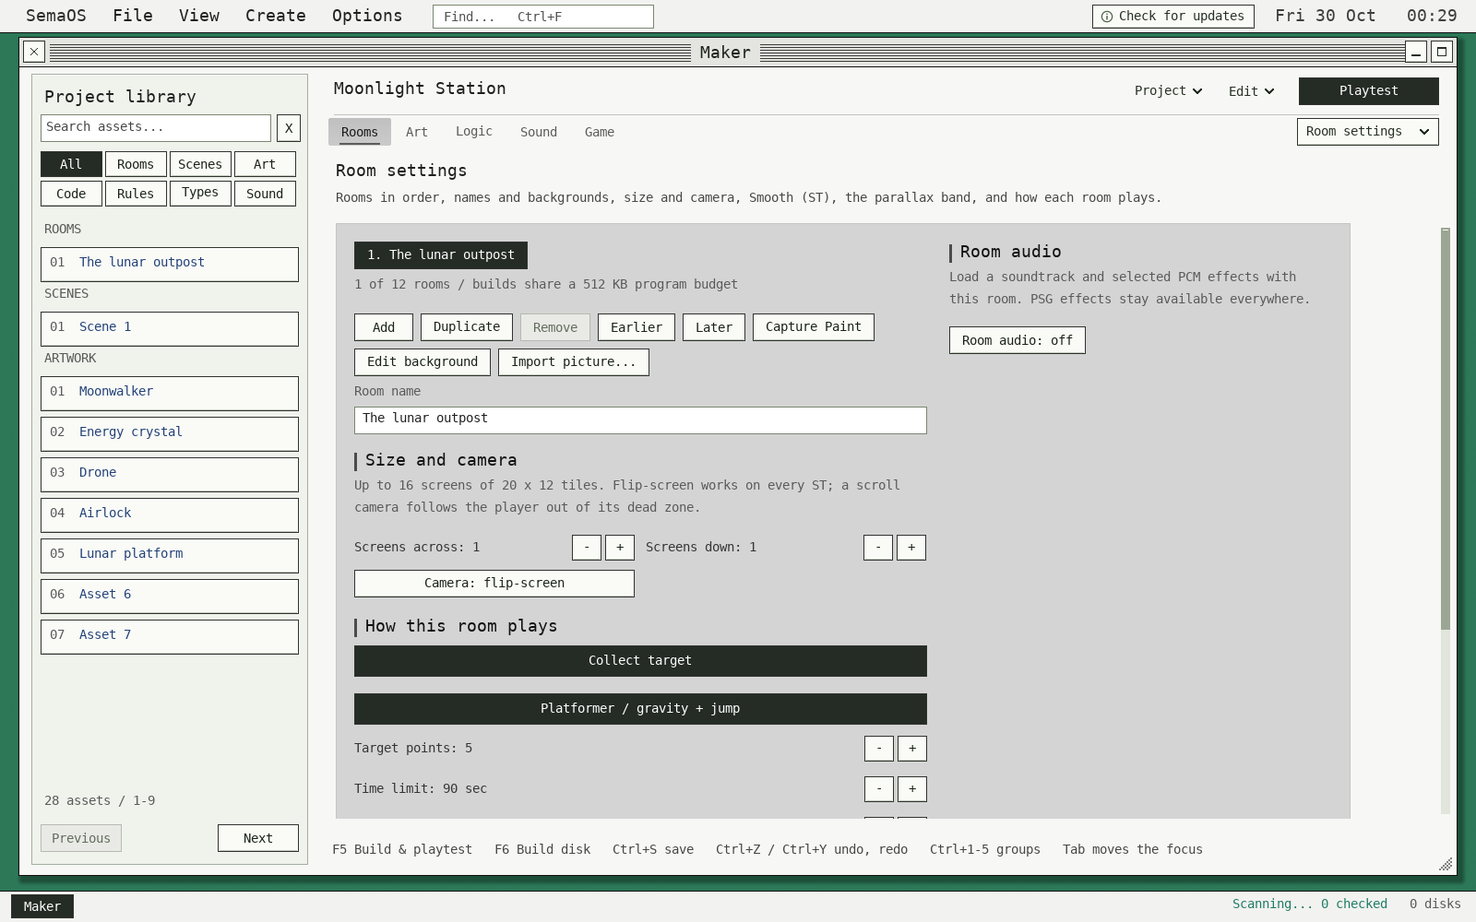
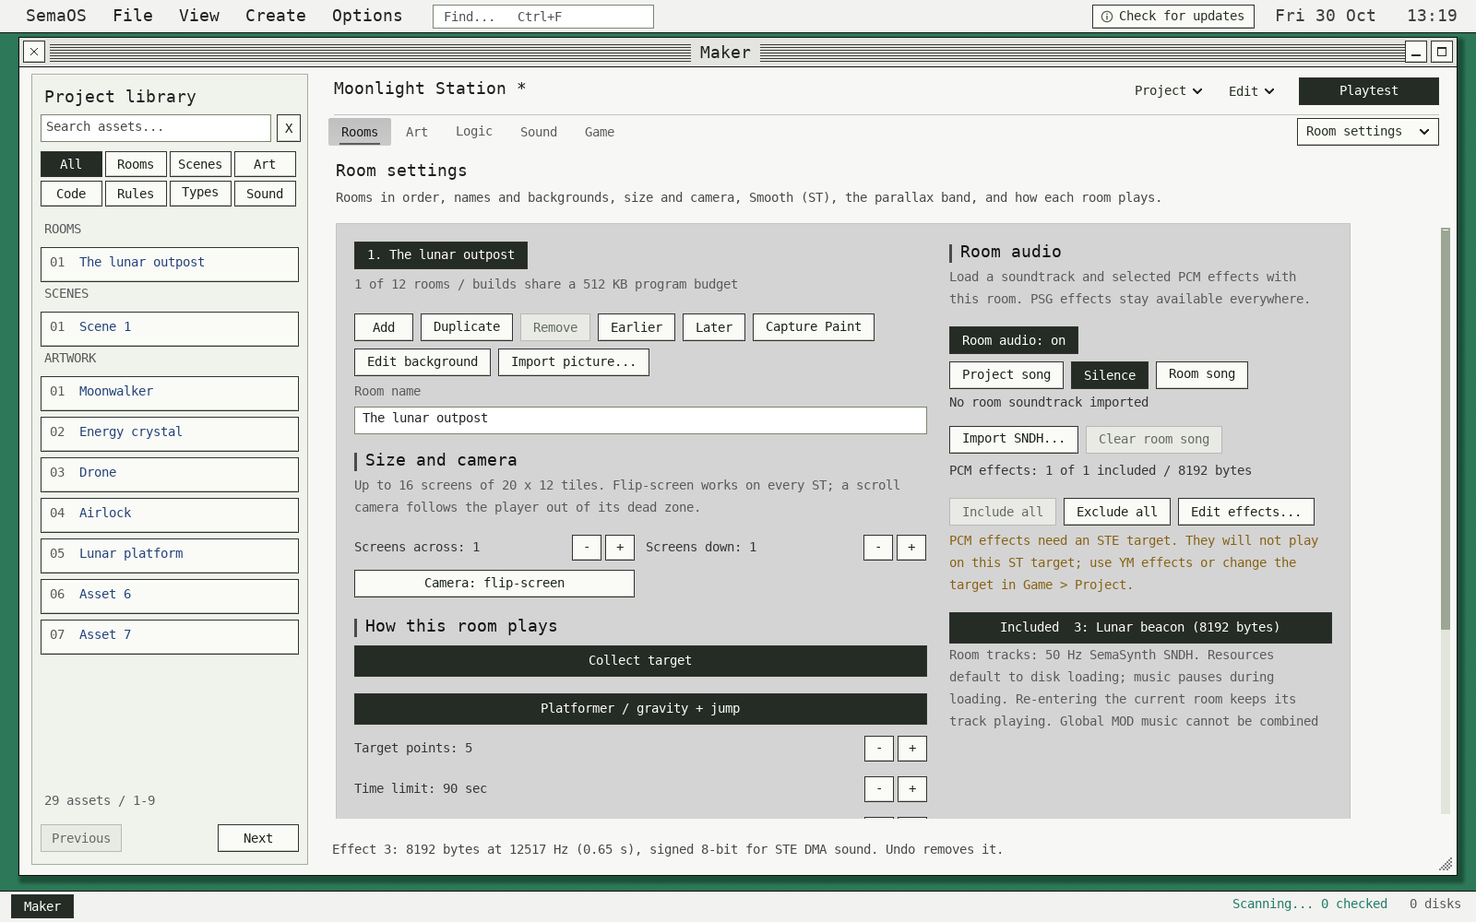
Refresh Creator page with 1.1.589 screenshots and workflows

diff --git a/docs/creator.html b/docs/creator.html
@@ -18,40 +18,47 @@
 <div class="actions"><a class="button" href="index.html#download">Get SemaTor <span aria-hidden="true">↓</span></a><a class="secondary" href="#workspace">Inside the studio <span aria-hidden="true">↘</span></a></div>
 <p class="availability">Windows &amp; Linux · Mouse and keyboard · Violet &amp; GEM themes</p>
 <p class="availability">New in 1.1.589: jump between placed objects, navigate code by line and match, and keep sample loops intact across edits.</p>
-<figure class="hero-figure"><a href="creator/maker-workspace.png" aria-label="Open full Maker workspace screenshot"><img src="creator/maker-workspace.png" width="1600" height="1000" fetchpriority="high" alt="Maker editing Moonlight Station, with a lunar room, tile palette and searchable project library"></a><figcaption><span>THE WORKSPACE / MAKER</span>Actual 1.1.587 application capture. Moonlight Station is original demonstration content built with the platform starter.</figcaption></figure>
+<figure class="hero-figure"><a href="creator/maker-workspace.png" aria-label="Open full Maker workspace screenshot"><img src="creator/maker-workspace.png" width="1600" height="1000" fetchpriority="high" alt="Maker editing Moonlight Station, with a lunar room, tile palette and searchable project library"></a><figcaption><span>THE WORKSPACE / MAKER</span>SemaTor 1.1.589 · Violet theme. Moonlight Station is original demonstration content built with the platform starter. Open any screenshot to inspect the complete image.</figcaption></figure>
 </section>
-<nav class="section-nav wrap" aria-label="On this page"><a href="#workspace">Visual creation</a><a href="#code">SemaBASIC &amp; assembly</a><a href="#tools">Connected tools</a><a href="#targets">Real machine limits</a><a href="#questions">Practical details</a></nav>
+<nav class="section-nav wrap" aria-label="On this page"><a href="#workspace">Visual creation</a><a href="#paint">Pixel art</a><a href="#code">SemaBASIC &amp; assembly</a><a href="#sound">Sound &amp; samples</a><a href="#tools">Connected tools</a><a href="#targets">Real machine limits</a><a href="#questions">Practical details</a></nav>
 <section id="workspace" class="wrap section">
 <div class="section-heading"><p class="eyebrow">START VISUALLY / KEEP GOING</p><h2>Your project.<br>Everything in reach.</h2><p>Rooms, artwork, types, rules, code and sounds share one searchable library. Focus on the canvas, then open the part you need to change.</p></div>
-<div class="feature-strip"><div><span class="number">01 / BUILD THE WORLD</span><h3>Rooms that grow.</h3><p>Paint tiles, place objects and draw movement paths. Follow the player through rooms up to sixteen screens, with zoom, panning and a minimap.</p></div><div><span class="number">02 / GIVE IT BEHAVIOUR</span><h3>One type. Many instances.</h3><p>Give an object type rules and event code, then reuse it across your game. Duplicate a type with its own rules and routines when you want a variation.</p></div><div><span class="number">03 / TRY IT NOW</span><h3>Build. Play. Adjust.</h3><p>F5 builds the native program and opens Playtest. Pause, inspect values and step through code, then return to the same editable project.</p></div></div>
-<figure class="wide-figure"><a href="creator/maker-types.png" aria-label="Open full object type workspace screenshot"><img src="creator/maker-types.png" width="1600" height="1000" loading="lazy" alt="Maker object type workspace with named types, artwork and Create, Duplicate and event editing controls"></a><figcaption>Defined object types stay easy to find; empty slots and capacity remain explicit. New and Duplicate are separate actions.</figcaption></figure>
+<div class="feature-strip"><div><span class="number">01 / BUILD THE WORLD</span><h3>Rooms that grow.</h3><p>Paint tiles, place objects and draw movement paths. Follow the player through rooms up to sixteen screens, with zoom, panning and a minimap.</p></div><div><span class="number">02 / GIVE IT BEHAVIOUR</span><h3>One type. Many instances.</h3><p>Give an object type rules and event code, then reuse it across your game. Duplicate a type with its own rules and routines when you want a variation. Turn an independent placed object into a reusable type, or find every placement of an existing type.</p></div><div><span class="number">03 / TRY IT NOW</span><h3>Build. Play. Adjust.</h3><p>F5 builds the native program and opens Playtest. Pause, inspect values and step through code, then return to the same editable project.</p></div></div>
+<figure class="wide-figure"><a href="creator/maker-types.png" aria-label="Open full object type workspace screenshot"><img src="creator/maker-types.png" width="1600" height="1000" loading="lazy" alt="Maker object type workspace with named types, artwork and Create, Duplicate and event editing controls"></a><figcaption>Rooms → Object types. New object type, Duplicate type and Find placed instances are separate controls; the selected type shows its sprite and linked instance count.</figcaption></figure>
+<div class="screenshot-story"><div><p class="eyebrow">FIND THE OBJECT / KEEP YOUR PLACE</p><h3>Every instance.<br>One way back.</h3><p><strong>Find placed instances</strong> lists the selected type’s placements by room and position. Choose a row to open the room and centre that exact object.</p><p>Hidden objects become visible when you jump to them. Existing locks remain in place, and navigation does not change the project.</p></div><figure><a href="creator/maker-instances.png" aria-label="Open full placed instances screenshot"><img src="creator/maker-instances.png" width="1600" height="1000" loading="lazy" alt="Maker listing five Energy crystal placements in The lunar outpost, with room names and positions"></a><figcaption>1.1.589 · The five crystals in this demo are linked to the same Energy crystal type.</figcaption></figure></div>
 <div class="starter-band"><div><p class="eyebrow">FIVE PLAYABLE STARTERS</p><h3>Learn by changing something.</h3></div><p>Top-down · Platform · Arcade · Puzzle · Two-player<br><span>Replace the art, move a switch or change a rule. The examples use the same tools as your own project.</span></p></div>
 </section>
-<section class="paint-section"><div class="wrap section">
+<section id="paint" class="paint-section"><div class="wrap section">
 <div class="section-heading"><p class="eyebrow">SEMAPAINT / EVERY PIXEL COUNTS</p><h2>Small canvas.<br>Precise control.</h2><p>A 320 × 200 indexed canvas, layers beside your artwork and animation frames below it. Zoom in to see the individual ST pixels, with a pixel grid and a separate tile grid.</p></div>
-<figure class="wide-figure"><a href="creator/paint-animation.png" aria-label="Open full SemaPaint screenshot"><img src="creator/paint-animation.png" width="1600" height="1000" loading="lazy" alt="SemaPaint showing a zoomed lunar sprite sheet, individual pixel grid, named layers and four animation frames"></a><figcaption>Original indexed artwork in SemaPaint 1.1.587. The animation cell size stays independent of the pixel grid.</figcaption></figure>
-<div class="palette-story"><div><p class="eyebrow">COLOUR, WITHOUT SURPRISES</p><h3>Add a colour.<br>Keep what you painted.</h3><p><strong>New colour</strong> uses a free palette slot, or selects an exact match already in the palette. <strong>Edit colour</strong> deliberately changes every pixel using that slot. Both show a preview before you confirm.</p><p>Used slots include hidden layers and animation frames. If all sixteen slots are occupied, the editor tells you; it does not quietly recolour another part of your picture.</p><div class="palette-facts"><span><strong>512</strong> ST colours</span><span><strong>4,096</strong> STE colours</span><span><strong>16</strong> slots per picture</span></div></div><figure><a href="creator/paint-new-colour.png" aria-label="Open full New colour dialog screenshot"><img src="creator/paint-new-colour.png" width="1600" height="1000" loading="lazy" alt="SemaPaint New colour dialog with ST colour channels, staged preview and separate Use colour and Cancel controls"></a><figcaption>The ST and STE colour ranges are available through their hardware channel steps.</figcaption></figure></div>
+<figure class="wide-figure"><a href="creator/paint-animation.png" aria-label="Open full SemaPaint screenshot"><img src="creator/paint-animation.png" width="1600" height="1000" loading="lazy" alt="SemaPaint showing a zoomed lunar sprite sheet, individual pixel grid, named layers and four animation frames"></a><figcaption>Original indexed artwork in SemaPaint 1.1.589. The animation cell size stays independent of the pixel grid. The layer list and frame strip remain beside the working canvas.</figcaption></figure>
+<div class="palette-story"><div><p class="eyebrow">COLOUR, WITHOUT SURPRISES</p><h3>Add a colour.<br>Keep what you painted.</h3><p><strong>New colour</strong> uses a free palette slot, or selects an exact match already in the palette. <strong>Edit palette colour</strong> deliberately changes every pixel using that slot. Both show a preview before you confirm. Use colour replacement when you want to replace an index within your selection, active layer or whole picture.</p><p>Used slots include hidden layers and animation frames. If all sixteen slots are occupied, the editor tells you; it does not quietly recolour another part of your picture.</p><div class="palette-facts"><span><strong>512</strong> ST colours</span><span><strong>4,096</strong> STE colours</span><span><strong>16</strong> slots per picture</span></div></div><figure><a href="creator/paint-new-colour.png" aria-label="Open full New colour dialog screenshot"><img src="creator/paint-new-colour.png" width="1600" height="1000" loading="lazy" alt="SemaPaint New colour dialog with ST colour channels, staged preview and separate Use colour and Cancel controls"></a><figcaption>The ST and STE colour ranges are available through their hardware channel steps.</figcaption></figure></div>
 </div></section>
 <section id="code" class="wrap section">
 <div class="section-heading"><p class="eyebrow">VISUAL RULES → SEMABASIC → 68000</p><h2>Simple to begin.<br>Space to go deep.</h2><p>Add a few lines to an event, build shared modules or take control with a custom engine. SemaBASIC compiles to editable 68000 source; the machine’s memory and time remain the real limits.</p></div>
-<figure class="wide-figure"><a href="creator/maker-code.png" aria-label="Open full Maker code workspace screenshot"><img src="creator/maker-code.png" width="1600" height="1000" loading="lazy" alt="Maker code editor showing a SemaBASIC Draw event, line numbers, syntax colours and a library beside the editor"></a><figcaption>The Code workspace in 1.1.587. Block indentation, automatic indentation, comment toggling, search and Undo support everyday editing.</figcaption></figure>
+<figure class="wide-figure"><a href="creator/maker-code.png" aria-label="Open full Maker code workspace screenshot"><img src="creator/maker-code.png" width="1600" height="1000" loading="lazy" alt="Maker code editor showing a SemaBASIC Draw event, line numbers, syntax colours and a library beside the editor"></a><figcaption>The Code workspace in 1.1.589. The status line shows the cursor position and navigation shortcuts: Ctrl+G for a line, F3 / Shift+F3 for matches. The code library stays beside the editor.</figcaption></figure>
 <div class="code-columns"><div><h3>Build on the game.</h3><p>Attach SemaBASIC to Create, Step, Collision, keys, alarms or game events. Use procedures, arrays, strings, files, drawing commands and shared modules. Terrain queries work in room coordinates, including scrolling worlds.</p></div><div><h3>Get closer to the machine.</h3><p>Edit assembly routines or open generated source in Program Lab. Use the assembler and debugger to inspect your work. A custom engine is an explicit project choice, with its source used for builds.</p></div><div><h3>Know the budget.</h3><p>Up to 48 code units, 16 KB per unit and 128 KB of unit code in total. Maker checks the compiled program and target memory separately, including resources and supported packed loading.</p></div></div>
 </section>
+<section id="sound" class="sound-section"><div class="wrap section">
+<div class="section-heading"><p class="eyebrow">ROOM AUDIO / SAMPLE EDITOR</p><h2>A sound for<br>every place.</h2><p>Choose what a room plays, then open a sound in the Sample Editor for detailed work. Linked editing keeps the effect’s loop information with its audio.</p></div>
+<figure class="wide-figure"><a href="creator/sample-editor.png" aria-label="Open full linked Sample Editor screenshot"><img src="creator/sample-editor.png" width="1600" height="1000" loading="lazy" alt="Sample Editor editing the Lunar beacon effect, showing its waveform, selection and loop controls"></a><figcaption>1.1.589 · Original Lunar beacon demo sound. The linked editor shows the waveform and loop boundaries; Done brings edits back to Maker. STE loops end at the sample end.</figcaption></figure>
+<div class="code-columns"><div><h3>Select precisely.</h3><p>Left and Right move one sample frame. Hold Shift to extend a selection, or Ctrl for steps of about 10 ms. Home and End reach the bounds; Ctrl+L selects the loop.</p></div><div><h3>Keep the loop.</h3><p>Loop positions follow cuts and rate changes. Undo restores the audio and markers together. Linked MOD instrument and STE effect edits return their loop information; WAV exports contain audio only.</p></div><div><h3>Choose room sounds.</h3><p>Use the project song, silence or a supported room song. Include all, none or selected effects from the project’s existing PCM bank. Room choices do not create a separate sample bank.</p></div></div>
+<figure class="wide-figure"><a href="creator/maker-room-audio.png" aria-label="Open full GEM room settings screenshot"><img src="creator/maker-room-audio.png" width="1600" height="1000" loading="lazy" alt="Maker Room settings in the GEM theme with room music and sound-effect inclusion controls"></a><figcaption>1.1.589 · Room settings in GEM, with Include all and Exclude all. This ST-target example displays the warning that PCM effects require an STE target.</figcaption></figure>
+</div></section>
 <section id="tools" class="tools-section"><div class="wrap section">
 <div class="section-heading"><p class="eyebrow">THE REST OF YOUR STUDIO</p><h2>A connected<br>creative desktop.</h2><p>Keep each task focused. Project links let you edit artwork and sound in their dedicated tools and bring changes back deliberately.</p></div>
 <div class="tool-grid">
 <article class="tool"><div class="tool-heading"><img src="app/icons/semasynth.png" width="48" height="48" alt=""><h3>SemaSynth</h3></div><p>Compose patterns and arrange songs. Shape YM instruments, edit waveforms and macros, work with digi and Quartet samples, or add supported STE stereo sample tracks.</p><p>MIDI workflows, sub-songs, groove, transpose, SNDH and audio export, plus supported YM/VTX and MOD workflows.</p></article>
-<article class="tool"><div class="tool-heading"><img src="app/icons/music.png" width="48" height="48" alt=""><h3>Sample Editor</h3></div><p>Zoom into a waveform, select a range, trim, normalise and audition. Edit a MOD instrument or STE effect and return it with its loop intact. Loop markers follow cuts, resampling and Undo; keyboard controls select exact sample frames. WAV exports contain audio only.</p><p>Apply, Cancel and Undo make changes across tools explicit.</p></article>
-<article class="tool"><div class="tool-heading"><img src="app/icons/lab.png" width="48" height="48" alt=""><h3>Program Lab</h3></div><p>Write and assemble 68000 source, navigate code and inspect execution. Build errors link back to the relevant source, rule or routine.</p><p>Playtest supports breakpoints, stepping and named values, including SemaBASIC source-line debugging.</p></article>
+<article class="tool"><div class="tool-heading"><img src="app/icons/music.png" width="48" height="48" alt=""><h3>Sample Editor</h3></div><p>Zoom into a waveform, select a range, trim, normalise and audition. Edit a MOD instrument or STE effect and return it with its loop intact. Loop markers follow cuts, resampling and Undo; keyboard controls select exact sample frames. WAV exports contain audio only.</p><p>Done returns the edited sound to Maker; Cancel leaves the original sound intact. Undo restores audio and loop markers together.</p></article>
+<article class="tool"><div class="tool-heading"><img src="app/icons/lab.png" width="48" height="48" alt=""><h3>Program Lab</h3></div><p>Write and assemble 68000 source, navigate code and inspect execution. Build errors link back to the relevant source, rule or routine. Ctrl+L opens Go to Line in Program Lab; Ctrl+G keeps its Find Next action.</p><p>Playtest supports breakpoints, stepping and named values, including SemaBASIC source-line debugging.</p></article>
 <article class="tool"><div class="tool-heading"><img src="app/icons/paint.png" width="48" height="48" alt=""><h3>Capture Gallery</h3></div><p>Compose a picture or a side-by-side comparison. Set the output shape, adjust the crop, add a caption and export PNG.</p><p>A large preview and focused inspector show what will be exported. Save an editable composition to revisit it later.</p></article>
 </div>
-<figure class="wide-figure"><a href="creator/capture-gallery.png" aria-label="Open full Capture Gallery screenshot"><img src="creator/capture-gallery.png" width="1600" height="1000" loading="lazy" alt="Capture Gallery with a large lunar artwork composition and framing, output size and caption controls beside it"></a><figcaption>Capture Gallery in 1.1.587, using the same original demonstration artwork. Source pictures stay unchanged.</figcaption></figure>
+<figure class="wide-figure"><a href="creator/capture-gallery.png" aria-label="Open full Capture Gallery screenshot"><img src="creator/capture-gallery.png" width="1600" height="1000" loading="lazy" alt="Capture Gallery with a large lunar artwork composition and framing, output size and caption controls beside it"></a><figcaption>Capture Gallery in 1.1.589, using the same original demonstration artwork. Source pictures stay unchanged.</figcaption></figure>
 <p class="support-tools"><strong>Also on the desktop:</strong> Disk Workshop for disk preparation, Explorer for files, Documents and Notes, Code Reader, and Help with searchable SemaBASIC and SemaSynth references.</p>
 </div></section>
 <section id="targets" class="wrap section">
 <div class="section-heading"><p class="eyebrow">REAL OUTPUT / REAL LIMITS</p><h2>Build for the<br>machine you choose.</h2><p>Your project becomes a native ST program on a floppy image. Choose the target before adding features that depend on the STE or more memory.</p></div>
 <div class="target-grid"><article><h3>520 ST / 512 KB</h3><p>Native graphics, game rules, code and supported YM sound. Hardware Check enforces the selected RAM boundary during execution; it does not just watch a larger-memory run.</p></article><article><h3>1040 ST &amp; STE / 1 MB</h3><p>Choose more RAM or STE hardware. STE palettes, DMA samples and supported four-channel MOD playback expand your options, while audio and game code still share the frame budget.</p></article><article><h3>Running in SemaTor</h3><p>Exports can include a matching enhancement profile for Smooth Motion and expanded views. These presentation features are supplied by SemaTor when it runs your game.</p></article></div>
-<figure class="wide-figure"><a href="creator/hardware-check.png" aria-label="Open full Hardware Check screenshot"><img src="creator/hardware-check.png" width="1600" height="1000" loading="lazy" alt="Hardware Check reporting an actual Moonlight Station run with enforced 512 KB RAM and observed activity"></a><figcaption>Actual generated demo disk, checked in emulation. The report distinguishes enforced memory, observed hardware use and estimated CPU activity.</figcaption></figure>
+<figure class="wide-figure"><a href="creator/hardware-check.png" aria-label="Open full Hardware Check screenshot"><img src="creator/hardware-check.png" width="1600" height="1000" loading="lazy" alt="Hardware Check reporting an actual Moonlight Station run with enforced 512 KB RAM and observed activity"></a><figcaption>Actual generated demo disk, checked in emulation. The report distinguishes enforced memory, observed hardware use and sampled XBIOS Vsync timing.</figcaption></figure>
 <p class="target-note">An automatic check covers the paths it executes. Play a live test to exercise gameplay. These are emulator checks, not physical ST/STE certification; demanding effects and audio can exceed an original machine’s frame budget.</p>
 </section>
 <section id="questions" class="questions-section"><div class="wrap section">
@@ -67,7 +74,7 @@
 <details><summary>Which build includes the tools?</summary><p>The public Windows x64, Linux x86-64 and Linux ARM64 desktop builds include the suite inside SemaOS. Open the Create menu to begin. Android remains a separate private testing build; this page focuses on desktop authoring.</p></details>
 </div>
 <div class="final-cta"><div><h3>Make your first room.</h3><p>Start with something playable. Keep making it yours.</p></div><a class="button" href="index.html#download">Download 1.1.589 <span aria-hidden="true">↓</span></a></div>
-<p class="release-link"><a href="changelog.html#release-1-1-589">Read the complete 1.1.589 changelog.</a> All screenshots on this page are actual application captures with original demonstration content.</p>
+<p class="release-link"><a href="changelog.html#release-1-1-589">Read the complete 1.1.589 changelog.</a> All screenshots on this page were captured from the 1.1.589 application UI with original demonstration content. Images show the complete captured desktop and open at full resolution; Violet is shown throughout, with GEM in Room settings.</p>
 </div></section>
 </main>
 <footer class="wrap footer">SemaTor 1.1.589 · Created by David Baron with AI assistance.<br><a href="index.html">SemaTor home</a> · <a href="https://github.com/SirBaron/SemaTor/issues">Report a problem</a> · <a href="https://discord.gg/DdHfSGrdFc">Discord</a></footer>

diff --git a/docs/creator.css b/docs/creator.css
@@ -2,3 +2,5 @@
 
 .faq-figure{margin-top:20px;max-width:800px}.faq-figure img{border:1px solid var(--line);border-radius:8px}
 .hero-figure figcaption{display:flex;gap:28px;align-items:baseline}.hero-figure figcaption span{flex-shrink:0;font:11px var(--mono);letter-spacing:.08em;color:var(--cyan)}.feature-strip,.code-columns{display:grid;grid-template-columns:repeat(3,1fr);gap:36px;margin-top:36px}.feature-strip>div,.code-columns>div{border-top:1px solid var(--line);padding-top:26px}.feature-strip h3,.code-columns h3{font-size:24px;letter-spacing:-.025em}.feature-strip p,.code-columns p,.palette-story p{color:var(--muted)}.starter-band{display:flex;justify-content:space-between;align-items:center;gap:40px;margin-top:36px;padding:30px 0;border-block:1px solid var(--line)}.starter-band h3{font-size:25px;margin:0}.starter-band>p{margin:0;max-width:530px;color:var(--text)}.starter-band span{color:var(--muted);font-size:14px}.paint-section{background:linear-gradient(145deg,#19182b,#0e1824);border-block:1px solid var(--line)}.palette-story{display:grid;grid-template-columns:1fr 1.2fr;gap:48px;align-items:center;margin-top:52px}.palette-story h3{font-size:38px}.palette-story strong{color:var(--text)}.palette-story img{border:1px solid var(--line);border-radius:10px}.palette-facts{display:flex;justify-content:space-between;gap:20px;border-top:1px solid var(--line);padding-top:22px;margin-top:28px}.palette-facts span{font:12px/1.8 var(--mono);color:var(--muted)}.palette-facts strong{display:block;font:700 30px/1.2 Arial,Helvetica,sans-serif;letter-spacing:-.03em;color:var(--gold)}.questions-section{background:#0c1321;border-top:1px solid var(--line)}.tool-heading h3{font-size:25px}.support-tools{color:var(--muted);margin-bottom:0}.wide-figure{margin-top:38px}.code-columns{margin-top:28px}.creator-page .tool p:last-child{font-size:14px}.target-note{max-width:940px}.section-nav a:hover{color:var(--cyan)}@media(max-width:900px){.feature-strip,.code-columns{gap:24px}.palette-story{grid-template-columns:1fr;gap:22px}.palette-story>div{max-width:720px}.hero-figure figcaption{display:block}.hero-figure figcaption span{display:block;margin-bottom:6px}.starter-band{align-items:flex-start;flex-direction:column;gap:20px}}@media(max-width:650px){.feature-strip,.code-columns{grid-template-columns:1fr;gap:20px}.feature-strip>div,.code-columns>div{padding-top:20px}.palette-story{margin-top:32px}.palette-story h3{font-size:32px}.palette-facts strong{font-size:26px}.section-nav{gap:12px 22px}.intro br{display:none}.creator-hero h1{font-size:clamp(42px,10vw,65px)}.starter-band{padding-block:24px}}
+
+.screenshot-story{display:grid;grid-template-columns:1fr 1.6fr;gap:40px;align-items:center;margin-top:44px}.screenshot-story p{color:var(--muted)}.screenshot-story strong{color:var(--text)}.screenshot-story img{width:100%;border:1px solid var(--line);border-radius:10px}.sound-section{background:#101728;border-block:1px solid var(--line)}.creator-page figure img{object-fit:contain}.creator-page figure a{cursor:zoom-in}.creator-page .section-heading>*,.creator-page .code-columns>*,.creator-page .tool-grid>*,.creator-page .screenshot-story>*{min-width:0}.creator-page figcaption{overflow-wrap:anywhere}@media(max-width:900px){.screenshot-story{grid-template-columns:1fr;gap:20px}.screenshot-story>div{max-width:720px}}@media(max-width:650px){.palette-facts{flex-wrap:wrap}.creator-page .button,.creator-page .secondary{max-width:100%}.screenshot-story{margin-top:32px}}
